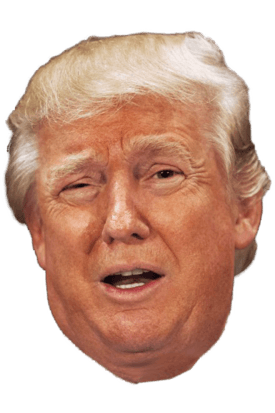
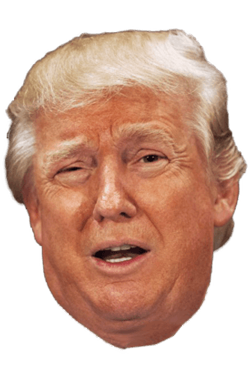
Trumps size, count added

diff --git a/css/main.css b/css/main.css
@@ -18,14 +18,29 @@ h1 {
 
 h5{
   width: 100%;
-  position: absolute;
+  position: fixed;
   bottom: -10px;
   text-align: center;
+}
+
+input {
+  position: fixed;
+  top: 0;
+  right: 5px;
+  text-align: center;
+}
+
+.count {
+  position: fixed;
+  top: 5px;
+  left: 10px;
+}
+
+h5, input, .count {
   z-index: 9999999;
 }
 
 .trumps_face {
-  width: 250px;
   position: absolute;
   pointer-events: none;
   -webkit-user-select: none;
@@ -33,4 +48,90 @@ h5{
   -moz-user-select: none;
   -o-user-select: none;
   user-select: none;
+}
+
+input[type=range] {
+  -webkit-appearance: none;
+  width: 200px;
+  margin: 5.9px 0;
+}
+input[type=range]:focus {
+  outline: none;
+}
+input[type=range]::-webkit-slider-runnable-track {
+  width: 100%;
+  height: 8.2px;
+  cursor: pointer;
+  box-shadow: 0px 0px 0px rgba(0, 0, 0, 0), 0px 0px 0px rgba(13, 13, 13, 0);
+  background: #000000;
+  border-radius: 25px;
+  border: 0px solid rgba(0, 0, 0, 0);
+}
+input[type=range]::-webkit-slider-thumb {
+  box-shadow: 0px 0px 4px rgba(0, 0, 0, 0.33), 0px 0px 0px rgba(13, 13, 13, 0.33);
+  border: 2.9px solid #ffffff;
+  height: 20px;
+  width: 20px;
+  border-radius: 50px;
+  background: #000000;
+  cursor: pointer;
+  -webkit-appearance: none;
+  margin-top: -5.9px;
+}
+input[type=range]:focus::-webkit-slider-runnable-track {
+  background: #000000;
+}
+input[type=range]::-moz-range-track {
+  width: 100%;
+  height: 8.2px;
+  cursor: pointer;
+  box-shadow: 0px 0px 0px rgba(0, 0, 0, 0), 0px 0px 0px rgba(13, 13, 13, 0);
+  background: #000000;
+  border-radius: 25px;
+  border: 0px solid rgba(0, 0, 0, 0);
+}
+input[type=range]::-moz-range-thumb {
+  box-shadow: 0px 0px 4px rgba(0, 0, 0, 0.33), 0px 0px 0px rgba(13, 13, 13, 0.33);
+  border: 2.9px solid #ffffff;
+  height: 20px;
+  width: 20px;
+  border-radius: 50px;
+  background: #000000;
+  cursor: pointer;
+}
+input[type=range]::-ms-track {
+  width: 100%;
+  height: 8.2px;
+  cursor: pointer;
+  background: transparent;
+  border-color: transparent;
+  color: transparent;
+}
+input[type=range]::-ms-fill-lower {
+  background: #000000;
+  border: 0px solid rgba(0, 0, 0, 0);
+  border-radius: 50px;
+  box-shadow: 0px 0px 0px rgba(0, 0, 0, 0), 0px 0px 0px rgba(13, 13, 13, 0);
+}
+input[type=range]::-ms-fill-upper {
+  background: #000000;
+  border: 0px solid rgba(0, 0, 0, 0);
+  border-radius: 50px;
+  box-shadow: 0px 0px 0px rgba(0, 0, 0, 0), 0px 0px 0px rgba(13, 13, 13, 0);
+}
+input[type=range]::-ms-thumb {
+  box-shadow: 0px 0px 4px rgba(0, 0, 0, 0.33), 0px 0px 0px rgba(13, 13, 13, 0.33);
+  border: 2.9px solid #ffffff;
+  height: 20px;
+  width: 20px;
+  border-radius: 50px;
+  background: #000000;
+  cursor: pointer;
+  height: 8.2px;
+}
+input[type=range]:focus::-ms-fill-lower {
+  background: #000000;
+}
+input[type=range]:focus::-ms-fill-upper {
+  background: #000000;
 }

diff --git a/js/main.js b/js/main.js
@@ -1,19 +1,25 @@
 $(document).ready(function(){
-  var ini = 0, count = 0
-  $(window).on('click', function(){
-    if (ini == 0) {
-      ini = 1
+  count = 0
+  $("a, input").mousedown(function(e) {
+       e.stopPropagation();
+  });
+  $(document).mousedown(function(){
+    if (count == 0) {
       $('h1').hide()
+      $('.count').fadeIn().text((count + 1) + " china")
+    }else {
+      $('.count').text((count + 1) + " chinas")
     }
     count++
     random_image = Math.floor(Math.random()*(16)+1)
     random_sound = Math.floor(Math.random()*(19)+1)
-    audio = new Audio(`resources/chinaSounds/China_${random_sound}.mp3`);
-    pos_x = event.clientX - 100;
-    pos_y = event.clientY - 100;
+    audio = new Audio(`resources/chinaSounds/China_${random_sound}.mp3`)
+    size_val = $('.slider').val()
+    pos_x = event.clientX - (size_val / 2)
+    pos_y = event.clientY - (size_val / 2)
     $('body').prepend(`<img class='trumps_face'
                                   src='resources/trumpFaces/trump_${random_image}.png'
-                                  style='z-index:${count};top:${pos_y}px;left:${pos_x}px;'/>`)
+                                  style='width:${size_val}px;z-index:${count};top:${pos_y}px;left:${pos_x}px;'/>`)
     audio.play()
   })
 })

diff --git a/index.html b/index.html
@@ -7,7 +7,9 @@
   </head>
   <body>
     <h1>Click for China</h1>
-    <h5><a href="http://hectorbus.com">hectorbus.com</a></h5>
+    <h3 class="count" style="display:none;z-index:999999;">chinas</h3>
+    <input type="range" min="100" max="400" value="200" class="slider" >
+    <h5><a href="http://hectorbus.com" target="_blank">hectorbus.com</a></h5>
     <script src="js/jquery.js" charset="utf-8"></script>
     <script src="js/main.js" charset="utf-8"></script>
   </body>
